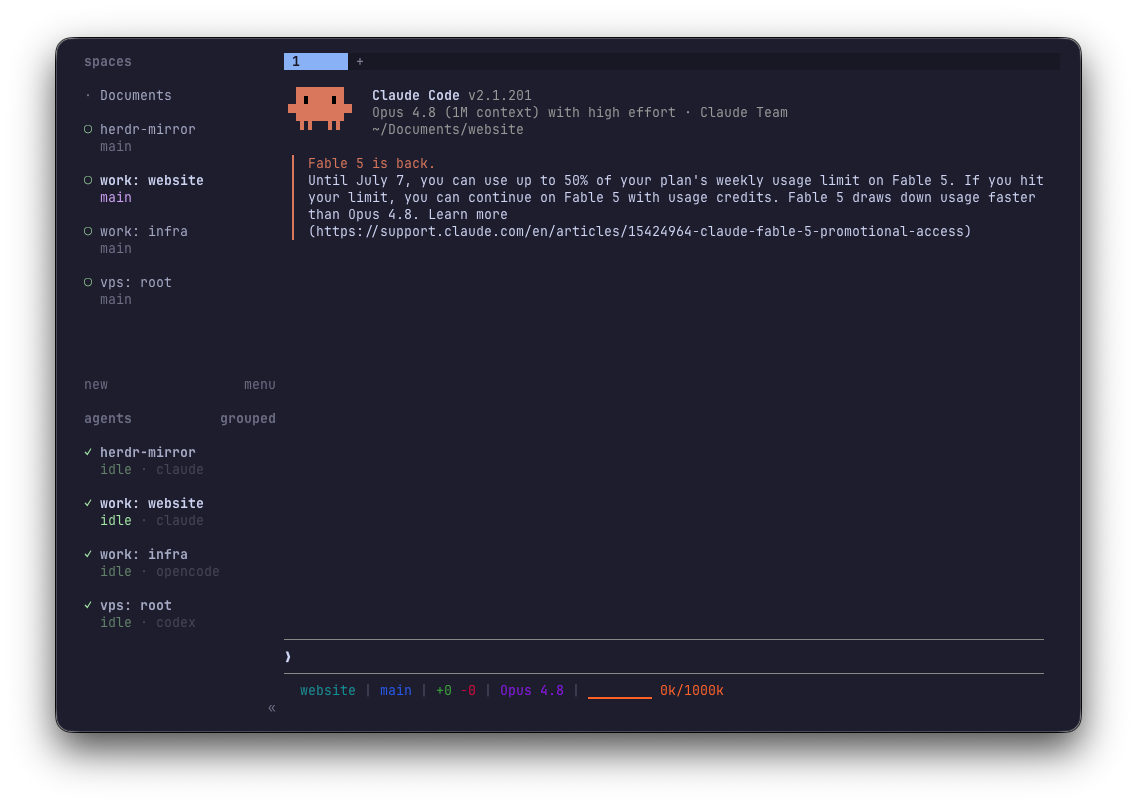
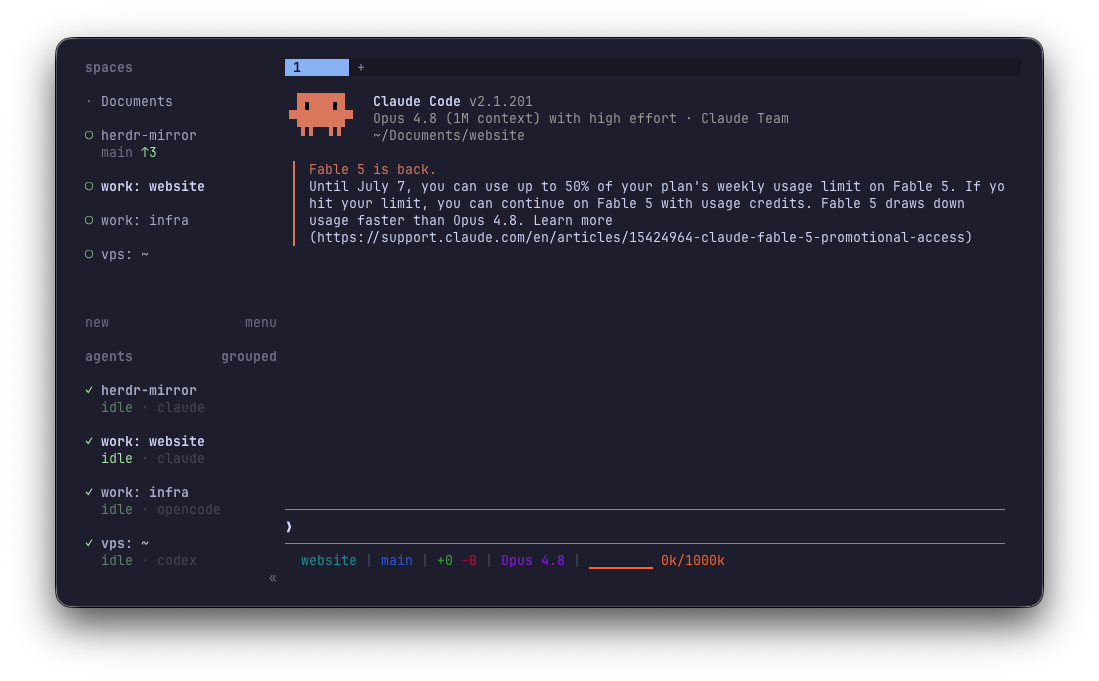
fix incorrect git status

diff --git a/src/mirror.rs b/src/mirror.rs
@@ -465,7 +465,11 @@ async fn converge_inner(deps: &ConvergeDeps, state: &mut HostState) -> Result<()
             walk_pane_ids(&exported.layout.root, &mut remote_order);
 
             if !tab_exists {
-                let cwd = deps.plugin_root.display().to_string();
+                // non-git dir on purpose: the pane exec's the streamer, so cwd
+                // is cosmetic, but herdr derives the sidebar git status from it —
+                // plugin_root (this repo) would leak herdr-mirror's own ahead/
+                // behind onto every mirror workspace
+                let cwd = deps.state_dir.display().to_string();
                 let root = map_node(&exported.layout.root, &cwd);
                 let target_tab = ws_entry.root_tab_local_id.clone();
                 // tab_id and workspace_id are mutually exclusive on layout.apply
@@ -515,7 +519,11 @@ async fn converge_inner(deps: &ConvergeDeps, state: &mut HostState) -> Result<()
                 // PLAIN split panes (not agent.start), then exec the streamer in.
                 // agent.start would set launch_argv and surface every plain
                 // terminal as a phantom "mirror" agent row.
-                let cwd = deps.plugin_root.display().to_string();
+                // non-git dir on purpose: the pane exec's the streamer, so cwd
+                // is cosmetic, but herdr derives the sidebar git status from it —
+                // plugin_root (this repo) would leak herdr-mirror's own ahead/
+                // behind onto every mirror workspace
+                let cwd = deps.state_dir.display().to_string();
                 for rp in &remote_panes_in_tab {
                     if state.panes.contains_key(&rp.pane_id) {
                         continue;

diff --git a/README.md b/README.md
@@ -174,8 +174,10 @@ target = "ssh://niko@203.0.113.7:2222"
 - **Layout geometry is copied, not linked**: pane content and typing are
   always live — only sizes are a snapshot. Remote pane adds/removes reconcile,
   but a split-ratio change at the remote doesn't resize an existing mirror.
-- **cwd-derived columns show local data** — git branch etc. reflect the machine
-  ssh runs from, not the remote repo.
+- **No git status on mirror rows** — herdr derives the sidebar git branch and
+  ahead/behind from the local workspace cwd, and there's no API to feed it a
+  remote repo's state, so mirror workspaces show no git chip. The remote's real
+  branch and status stay visible in the streamed pane's prompt.
 - **No custom sidebar UI** (plugin API limitation): mirrors are grouped only by
   the `<host>: ` naming convention.
 - **Remote must be reachable and running herdr**; the daemon surfaces a